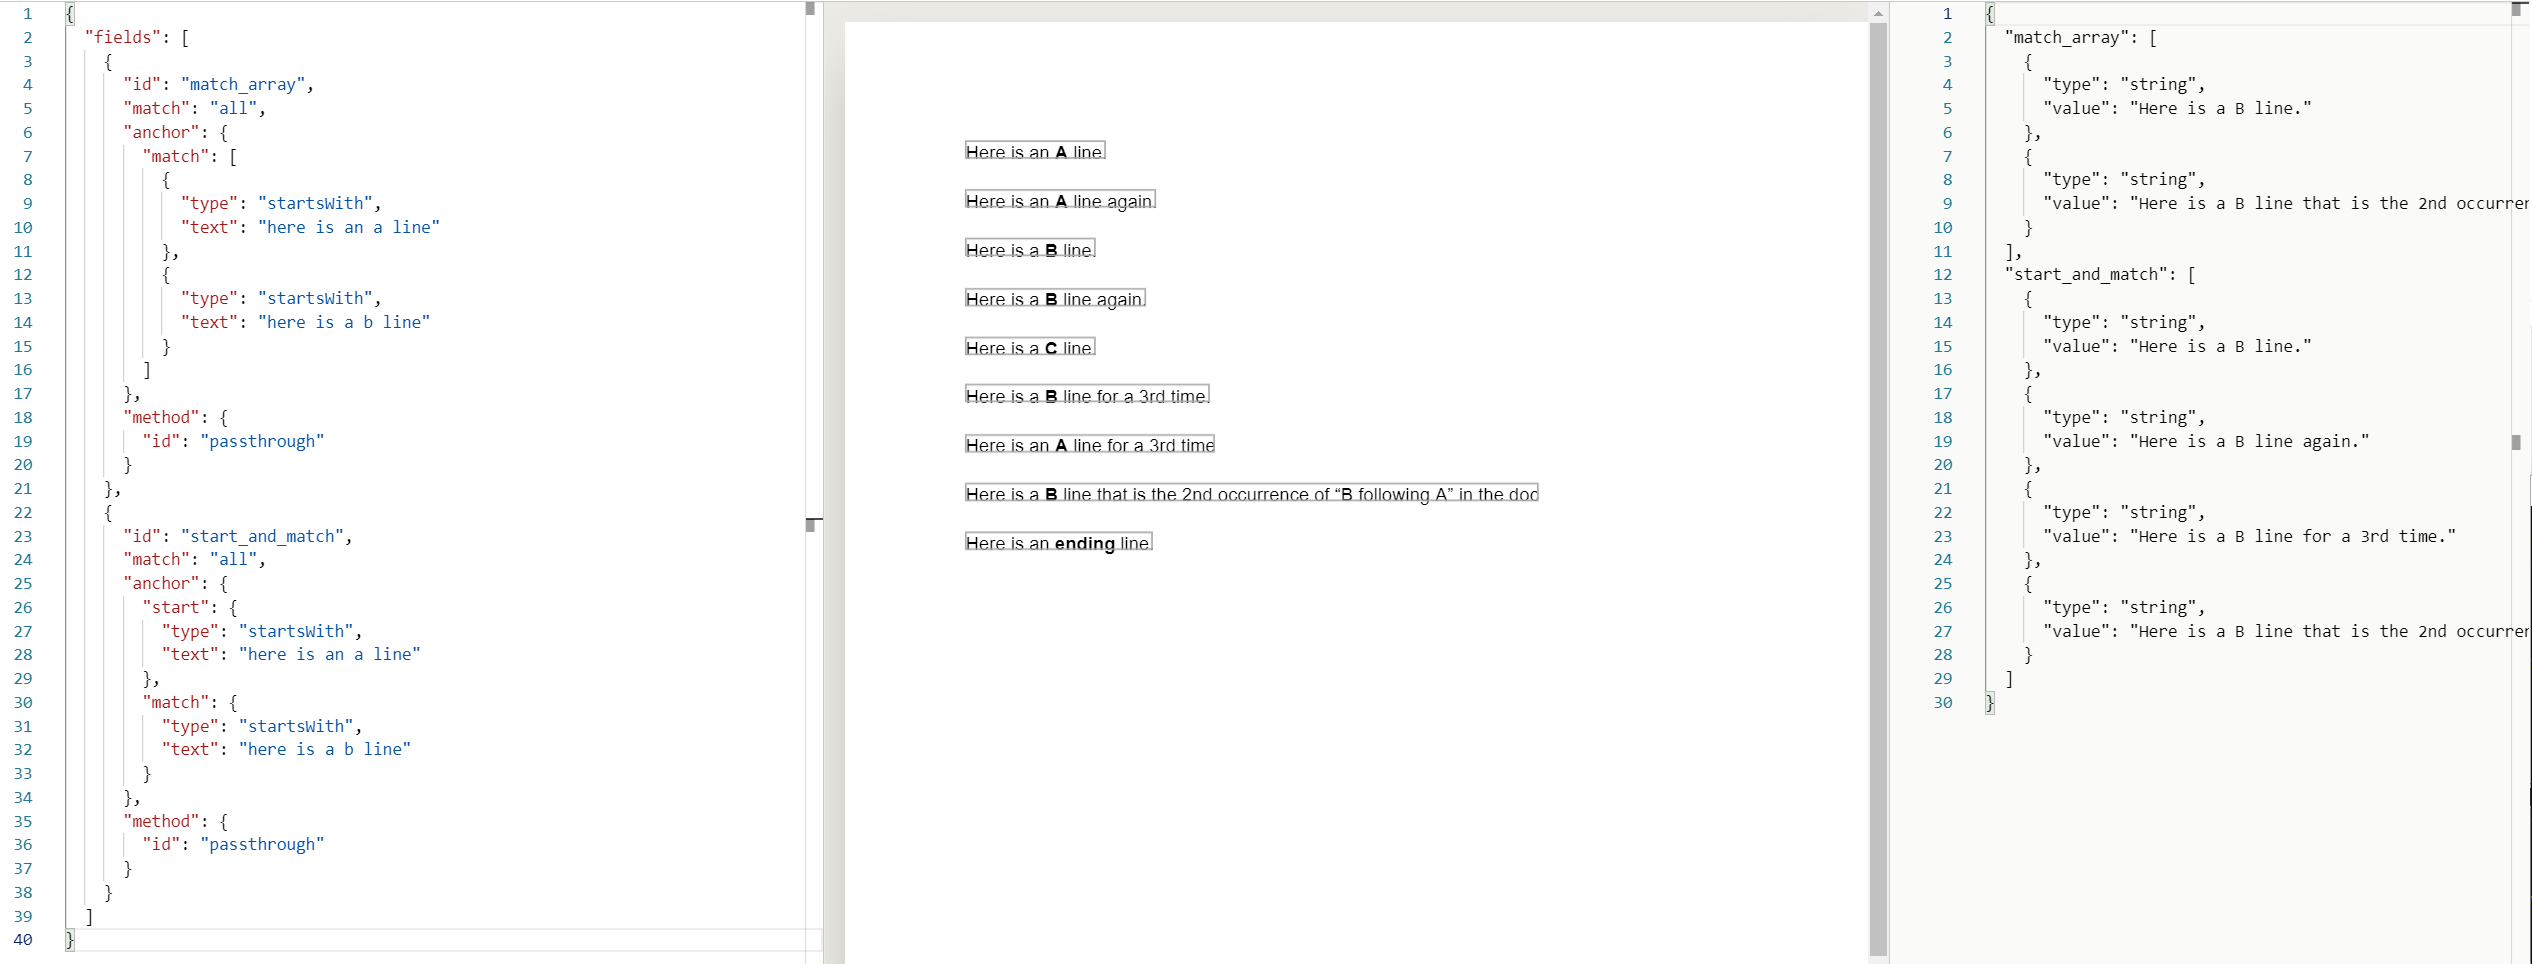
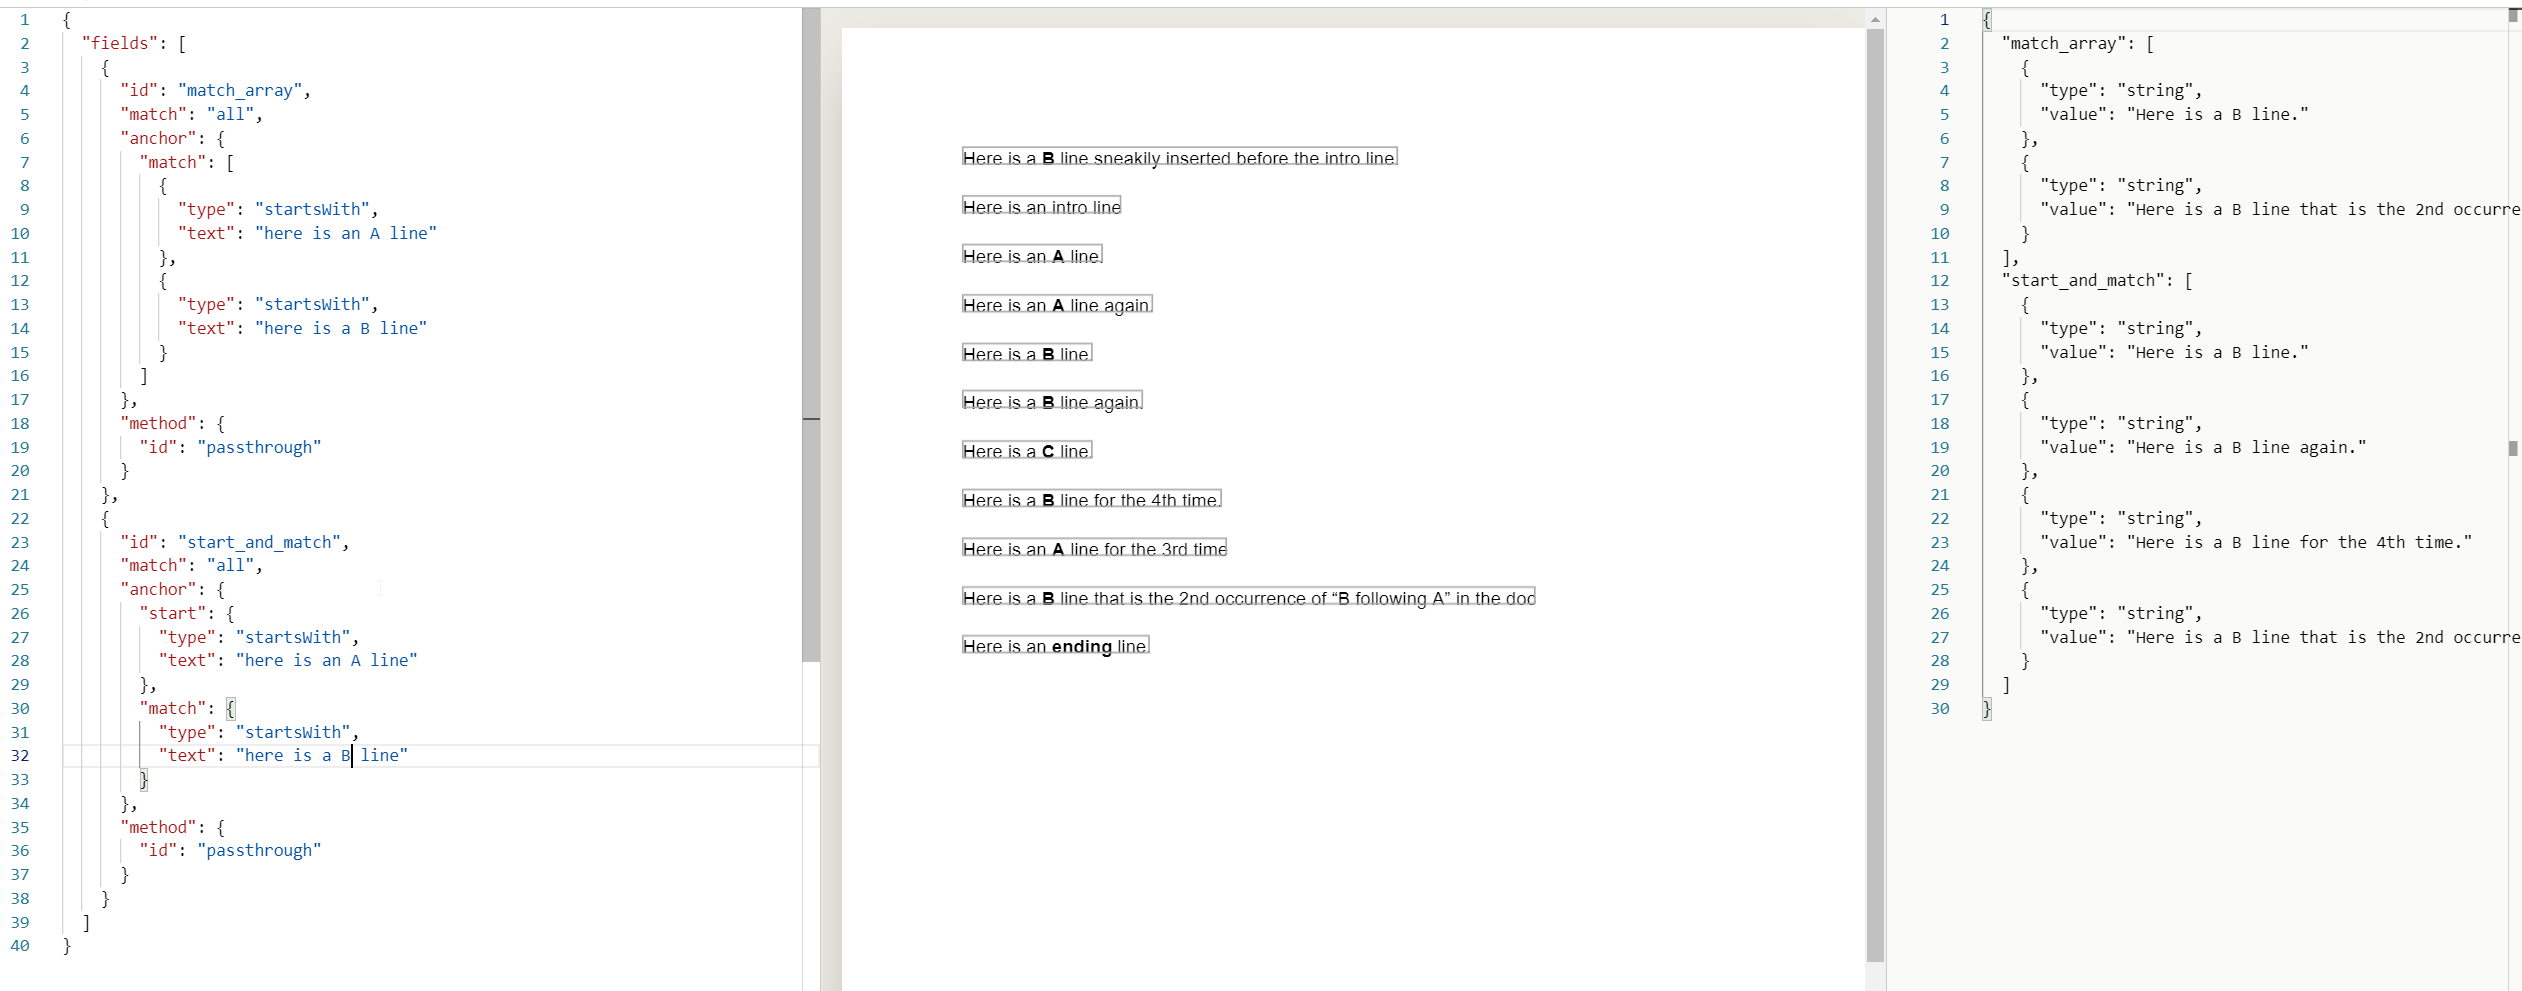
images

diff --git a/readme-sync/v0/senseml-reference/200 - field-query-object/100 - anchor-object.md b/readme-sync/v0/senseml-reference/200 - field-query-object/100 - anchor-object.md
@@ -211,7 +211,7 @@ And the output of this example is:
     },
     {
       "type": "string",
-      "value": "Here is a B line for a 3rd time."
+      "value": "Here is a B line for the 4th time."
     },
     {
       "type": "string",
